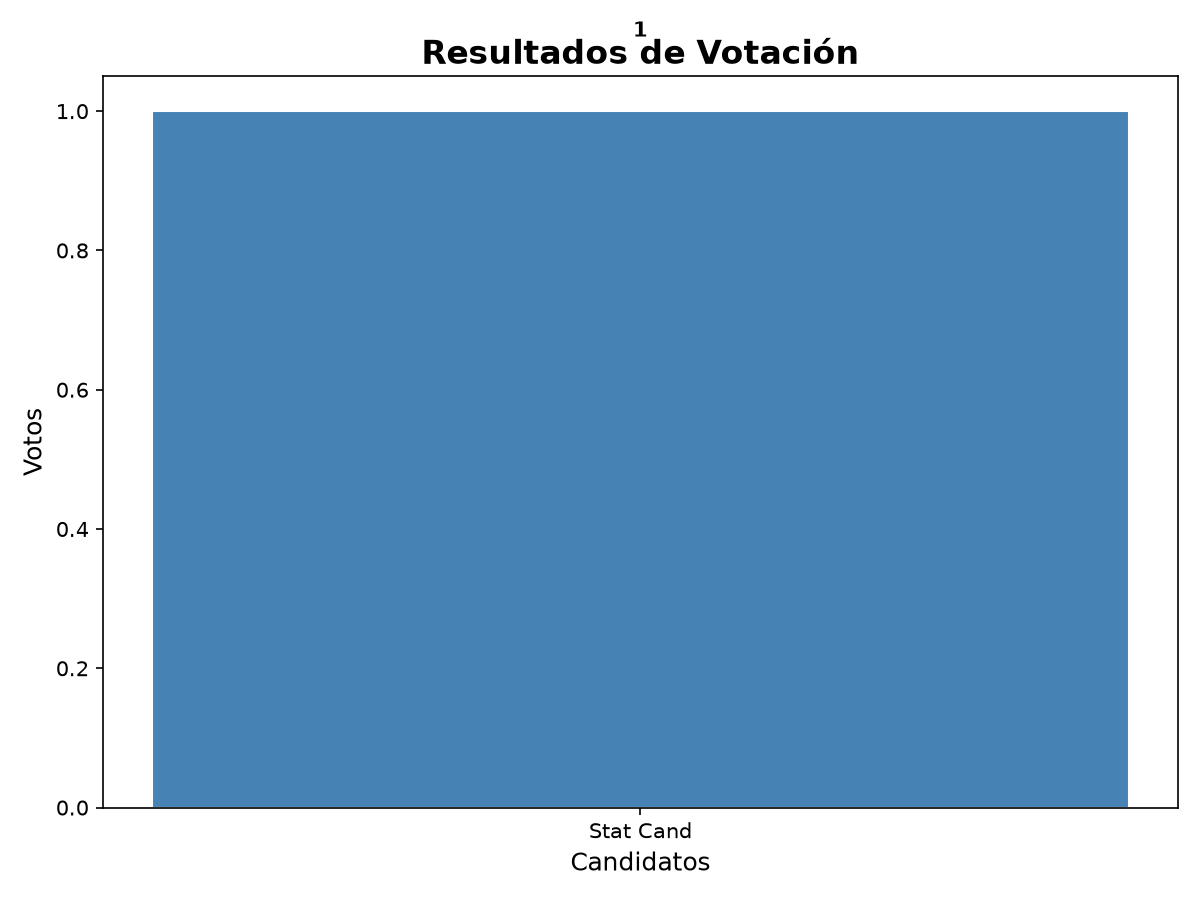
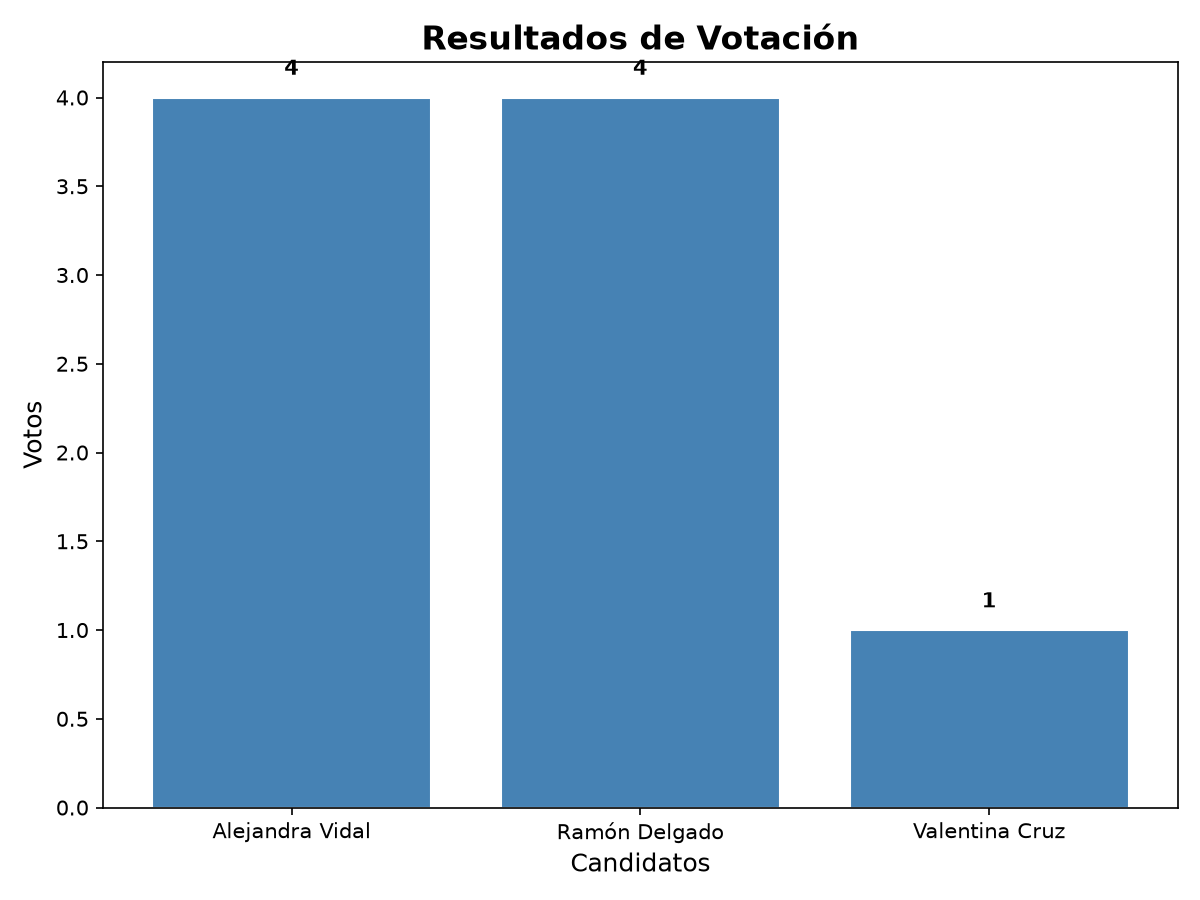
Update README with architecture diagram and remove TrustedHostMiddleware; add architecture and flow documentation

diff --git a/voting-system-api/app/main.py b/voting-system-api/app/main.py
@@ -6,7 +6,6 @@ from typing import Any
 
 import app.models  # Necesario para que SQLAlchemy registre todos los modelos
 from fastapi import FastAPI
-from fastapi.middleware.trustedhost import TrustedHostMiddleware
 from fastapi.openapi.utils import get_openapi
 
 from app.auth.security import auth_settings, oauth2_scheme
@@ -34,10 +33,6 @@ app = FastAPI(
     version="1.0.0",
 )
 
-app.add_middleware(
-    TrustedHostMiddleware,
-    allowed_hosts=["localhost", "127.0.0.1", "192.168.1.X"],
-)
 
 app.include_router(auth.router)
 app.include_router(voters.router)

diff --git a/voting-system-api/docs/arquitectura-y-flujo-api.md b/voting-system-api/docs/arquitectura-y-flujo-api.md
@@ -1,0 +1,157 @@
+# Arquitectura y flujo de la API de votaciones
+
+Este documento muestra cómo una solicitud atraviesa los componentes de la API y cómo se relacionan los endpoints para registrar personas, emitir votos y consultar resultados.
+
+## Interacción entre componentes
+
+La API separa el transporte HTTP, las reglas de negocio y el acceso a datos. Las solicitudes llegan directamente a FastAPI, sin middleware de validación del host. Los routers reciben las solicitudes; los servicios aplican validaciones y operaciones; los modelos SQLAlchemy representan los registros persistidos.
+
+```mermaid
+flowchart LR
+    Cliente["Cliente HTTP<br/>Navegador, cURL o aplicación"]
+    App["FastAPI<br/>app/main.py"]
+    Routers["Routers<br/>auth, voters, candidates, votes"]
+    Auth["Seguridad JWT<br/>OAuth2PasswordBearer<br/>AUTH_ENABLED"]
+    Schemas["Schemas Pydantic<br/>validan entrada y salida"]
+    Services["Servicios<br/>reglas de negocio"]
+    DbDependency["get_db()<br/>sesión por solicitud"]
+    Models["Modelos SQLAlchemy<br/>Voter, Candidate, Vote"]
+    Engine["Engine SQLAlchemy"]
+    Database[("Base de datos<br/>SQLite o PostgreSQL")]
+    Stats["Servicio de estadísticas<br/>Pandas + Matplotlib"]
+    Chart[("static/charts/<br/>voting_results.png")]
+    Docs["Swagger UI / ReDoc<br/>OpenAPI"]
+
+    Cliente -->|"HTTP / JSON"| App
+    App --> Routers
+    Routers -->|"endpoints protegidos"| Auth
+    Auth -->|"si AUTH_ENABLED=True,<br/>valida Bearer JWT"| Routers
+    Routers --> Schemas
+    Routers --> Services
+    Services --> DbDependency
+    DbDependency --> Models
+    Models --> Engine
+    Engine --> Database
+    Services --> Stats
+    Stats --> Models
+    Stats -->|"genera gráfica"| Chart
+    Chart -->|"FileResponse PNG"| Routers
+    Routers -->|"respuesta HTTP"| Cliente
+    App -.->|"documenta rutas y seguridad"| Docs
+    Docs -.->|"prueba solicitudes"| Cliente
+    Cliente -->|"POST /auth/token"| Routers
+    Auth -->|"emite JWT"| Cliente
+```
+
+### Qué hace cada capa
+
+| Componente | Responsabilidad |
+|---|---|
+| `main.py` | Crea la aplicación, registra routers y configura el esquema OpenAPI. |
+| Entrada HTTP | FastAPI enruta las solicitudes directamente; no hay middleware de validación del host configurado en la aplicación. |
+| `routers/` | Expone los endpoints HTTP y coordina dependencias, schemas y servicios. |
+| `auth/security.py` | Emite y valida JWT. Con `AUTH_ENABLED=True`, los endpoints de votantes, candidatos y votos requieren `Authorization: Bearer <token>`. |
+| `schemas/` | Valida los datos de las solicitudes y define las respuestas de la API. |
+| `services/` | Aplica reglas de negocio, consultas, transacciones y generación de resultados. |
+| `database.py` y `models/` | Proveen sesiones SQLAlchemy y representan votantes, candidatos y votos en la base de datos. |
+| `stats_service.py` | Calcula porcentajes y genera la imagen PNG con Pandas y Matplotlib. |
+
+## Flujo de funcionalidades y endpoints
+
+Los endpoints de candidatos y votantes preparan los datos necesarios para emitir votos. Cada voto requiere un votante y un candidato previamente registrados. Los endpoints de listado, estadísticas y gráfica consultan la información guardada.
+
+```mermaid
+flowchart TD
+    Inicio(["Inicio: cliente llama a la API"])
+    AuthCheck{"¿AUTH_ENABLED=True?"}
+    ObtenerToken["POST /auth/token<br/>username y password"]
+    TokenValido{"¿Credenciales válidas?"}
+    RecibirToken["Recibir access_token"]
+    Bearer["Enviar Authorization: Bearer token"]
+    SinToken["Continuar sin token"]
+    RechazoAuth["401 Unauthorized"]
+    Seleccion{"Seleccionar operación"}
+
+    Inicio --> AuthCheck
+    AuthCheck -->|Sí| ObtenerToken
+    ObtenerToken --> TokenValido
+    TokenValido -->|No| RechazoAuth
+    TokenValido -->|Sí| RecibirToken
+    RecibirToken --> Bearer
+    Bearer --> Seleccion
+    AuthCheck -->|No| SinToken
+    SinToken --> Seleccion
+
+    subgraph Candidatos["Candidatos"]
+        CrearCandidato["POST /candidates/<br/>Registrar candidato"]
+        ValidarCandidato{"¿Nombre libre<br/>y no es votante?"}
+        GuardarCandidato["Guardar Candidate<br/>votes = 0"]
+        ErrorCandidato["400: ya es votante<br/>409: candidato duplicado"]
+        ListarCandidatos["GET /candidates/<br/>skip, limit, party"]
+        CrearCandidato --> ValidarCandidato
+        ValidarCandidato -->|Sí| GuardarCandidato
+        ValidarCandidato -->|No| ErrorCandidato
+    end
+
+    subgraph Votantes["Votantes"]
+        CrearVotante["POST /voters/<br/>Registrar votante"]
+        ValidarVotante{"¿No es candidato<br/>y correo disponible?"}
+        GuardarVotante["Guardar Voter<br/>has_voted = false"]
+        ErrorVotante["400: ya es candidato<br/>409: correo duplicado"]
+        ListarVotantes["GET /voters/<br/>skip, limit, has_voted, search"]
+        EliminarVotante["DELETE /voters/{voter_id}"]
+        VotanteVoto{"¿Existe y no ha votado?"}
+        BorrarVotante["Eliminar votante"]
+        ErrorEliminar["404: no existe<br/>409: ya emitió su voto"]
+        CrearVotante --> ValidarVotante
+        ValidarVotante -->|Sí| GuardarVotante
+        ValidarVotante -->|No| ErrorVotante
+        EliminarVotante --> VotanteVoto
+        VotanteVoto -->|Sí| BorrarVotante
+        VotanteVoto -->|No| ErrorEliminar
+    end
+
+    subgraph Votos["Votos y resultados"]
+        EmitirVoto["POST /votes/<br/>voter_id y candidate_id"]
+        ValidarVoto{"¿Existen votante y candidato<br/>y el votante no ha votado?"}
+        Transaccion["Transacción atómica:<br/>crear Vote<br/>marcar Voter.has_voted = true<br/>incrementar Candidate.votes"]
+        Rollback["Si falla: rollback<br/>500 Internal Server Error"]
+        ListarVotos["GET /votes/<br/>Listar votos emitidos"]
+        Estadisticas["GET /votes/statistics"]
+        Calcular["Contar votantes que votaron<br/>y calcular porcentaje por candidato"]
+        Grafica["GET /votes/statistics/chart"]
+        GenerarGrafica["Generar PNG con Pandas<br/>y Matplotlib"]
+        EmitirVoto --> ValidarVoto
+        ValidarVoto -->|Sí| Transaccion
+        ValidarVoto -->|No| ErrorVoto["400: ya votó<br/>404: votante o candidato inexistente"]
+        Transaccion -.->|Error de BD| Rollback
+        Estadisticas --> Calcular
+        Grafica --> GenerarGrafica
+    end
+
+    Seleccion --> CrearCandidato
+    Seleccion --> ListarCandidatos
+    Seleccion --> CrearVotante
+    Seleccion --> ListarVotantes
+    Seleccion --> EliminarVotante
+    Seleccion --> EmitirVoto
+    Seleccion --> ListarVotos
+    Seleccion --> Estadisticas
+    Seleccion --> Grafica
+    GuardarVotante -->|"voter_id disponible"| EmitirVoto
+    GuardarCandidato -->|"candidate_id disponible"| EmitirVoto
+    Transaccion --> Estadisticas
+    Transaccion --> ListarVotos
+    Transaccion --> Grafica
+    Estado["GET /<br/>Health check público"]
+    Seleccion --> Estado
+```
+
+### Secuencia habitual
+
+1. Si JWT está activo, obtener un token con `POST /auth/token` y enviarlo como `Authorization: Bearer <access_token>`.
+2. Registrar un candidato con `POST /candidates/` y un votante con `POST /voters/`. La validación cruzada impide que una misma persona figure en ambos registros.
+3. Emitir el voto con `POST /votes/`, enviando los identificadores del votante y del candidato. La operación marca al votante como participante e incrementa el conteo del candidato en una sola transacción.
+4. Consultar los votos con `GET /votes/`, los porcentajes con `GET /votes/statistics` o la imagen con `GET /votes/statistics/chart`.
+
+Los endpoints protegidos rechazan una solicitud sin token válido con `401` cuando `AUTH_ENABLED=True`. `POST /auth/token` y `GET /` permanecen públicos.

diff --git a/README.md b/README.md
@@ -89,6 +89,10 @@ DATABASE_URL=sqlite:///./voting_system.db
 | `http://127.0.0.1:8000/docs` | Swagger UI — prueba todos los endpoints con un clic |
 | `http://127.0.0.1:8000/redoc` | ReDoc — documentación de referencia navegable |
 
+Para entender cómo se conectan las capas de la aplicación y cómo se relacionan los endpoints, consulta el [diagrama de arquitectura y flujo de la API](voting-system-api/docs/arquitectura-y-flujo-api.md).
+
+La aplicación recibe las solicitudes directamente en FastAPI; no tiene configurado un middleware de validación del host.
+
 ---
 
 ## Demostración rápida (seed + gráfica)
